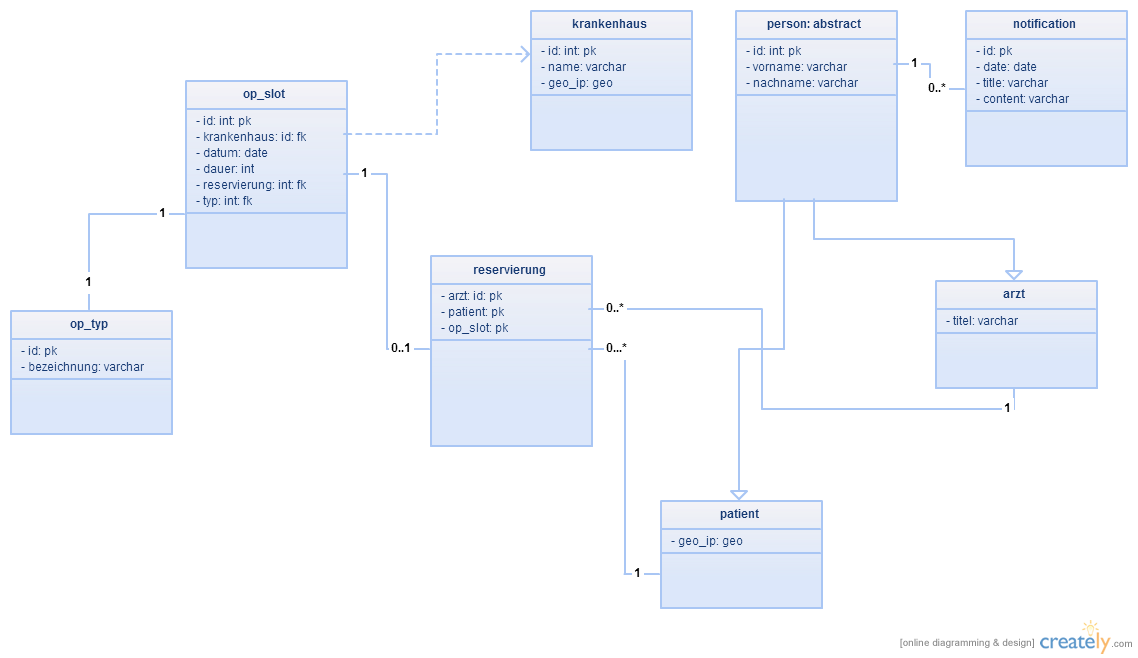
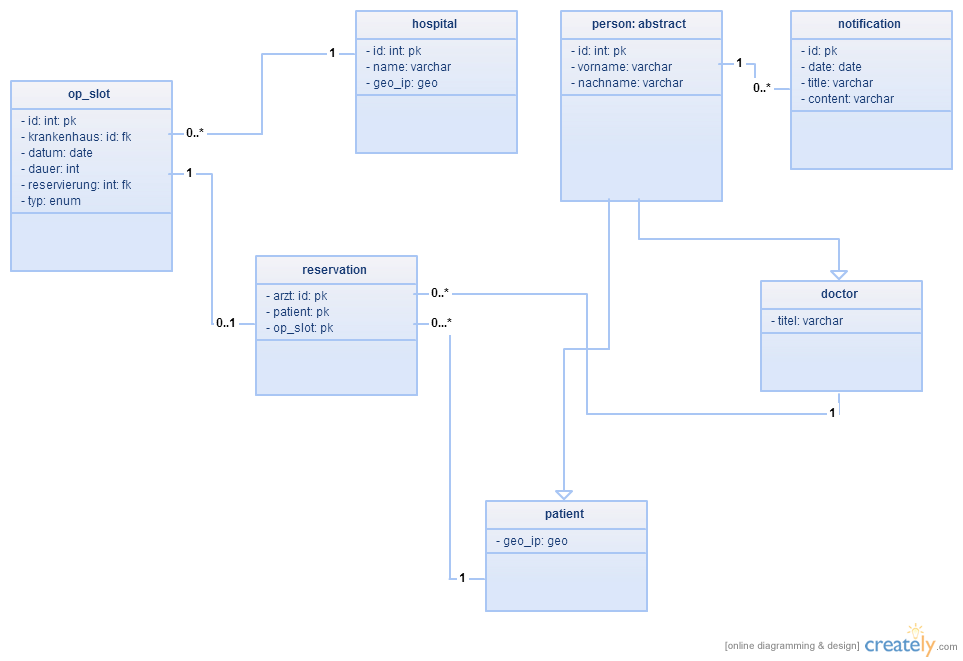
Added Domain Model Classes Update UML Diagram

diff --git a/dse_ui/src/main/java/models/OP_Slot.java b/dse_ui/src/main/java/models/OP_Slot.java
@@ -1,0 +1,88 @@
+package models;
+
+import java.util.Date;
+
+import org.springframework.data.annotation.Id;
+
+public class OP_Slot {
+
+	@Id
+	private String id;
+
+	private Hospital hospital;
+	private Date date;
+	private int length;
+	private Reservation reservation = null;
+	private Type type;
+	
+	public OP_Slot(Hospital hospital,int length,Type type) {
+		this.hospital = hospital;
+		this.length = length;
+		this.type = type;
+	}
+	
+	
+	public enum Type {
+		KARDIO,
+		AUGEN,
+		OTHER
+	}
+	
+	public String getId() {
+		return id;
+	}
+
+
+	public void setId(String id) {
+		this.id = id;
+	}
+	
+	public Hospital getHospital() {
+		return hospital;
+	}
+
+
+	public void setHospital(Hospital hospital) {
+		this.hospital = hospital;
+	}
+
+
+	public Date getDate() {
+		return date;
+	}
+
+
+	public void setDate(Date date) {
+		this.date = date;
+	}
+
+
+	public int getLength() {
+		return length;
+	}
+
+
+	public void setLength(int length) {
+		this.length = length;
+	}
+
+
+	public Reservation getReservation() {
+		return reservation;
+	}
+
+
+	public void setReservation(Reservation reservation) {
+		this.reservation = reservation;
+	}
+
+
+	public Type getType() {
+		return type;
+	}
+
+
+	public void setType(Type type) {
+		this.type = type;
+	}
+}

diff --git a/dse_ui/src/main/java/models/Notification.java b/dse_ui/src/main/java/models/Notification.java
@@ -1,0 +1,66 @@
+package models;
+
+import java.util.Date;
+
+import org.springframework.data.annotation.Id;
+
+
+public class Notification {
+
+	@Id
+	private String id;
+	private Person person;
+	private String title;
+	private String content;
+	private Date date;
+	private boolean hasBeenRead;
+	
+	public Notification(Person person, String title, String content) {
+		this.person = person;
+		this.title = title;
+		this.content = content;
+		this.date = new Date();
+		this.hasBeenRead = false;
+	}
+	
+	public String getId() {
+		return id;
+	}
+
+	public void setId(String id) {
+		this.id = id;
+	}
+	
+	public Person getPerson() {
+		return person;
+	}
+
+	public String getTitle() {
+		return title;
+	}
+
+	public void setTitle(String title) {
+		this.title = title;
+	}
+
+	public String getContent() {
+		return content;
+	}
+
+	public void setContent(String content) {
+		this.content = content;
+	}
+
+	public Date getDate() {
+		return date;
+	}
+	
+	public boolean hasBeenRead() {
+		return hasBeenRead;
+	}
+	
+	public void setHasBeenRead(boolean hasBeenRead) {
+		this.hasBeenRead = hasBeenRead;
+	}
+
+}

diff --git a/dse_ui/src/main/java/models/Hospital.java b/dse_ui/src/main/java/models/Hospital.java
@@ -1,0 +1,46 @@
+package models;
+
+import org.springframework.data.annotation.Id;
+import org.springframework.data.mongodb.core.index.GeoSpatialIndexed;
+
+
+public class Hospital {
+	
+	private String name;
+	
+	@Id
+	private String id;
+
+	@GeoSpatialIndexed
+	private double[] location;
+	
+	public Hospital(String name,double[] location) {
+		this.name = name;
+		this.location = location;
+	}
+	
+	public String getId() {
+		return id;
+	}
+
+	public void setId(String id) {
+		this.id = id;
+	}
+	
+	public String getName() {
+		return name;
+	}
+
+	public void setName(String name) {
+		this.name = name;
+	}
+
+	public double[] getLocation() {
+		return location;
+	}
+
+	public void setLocation(double[] location) {
+		this.location = location;
+	}
+	
+}
